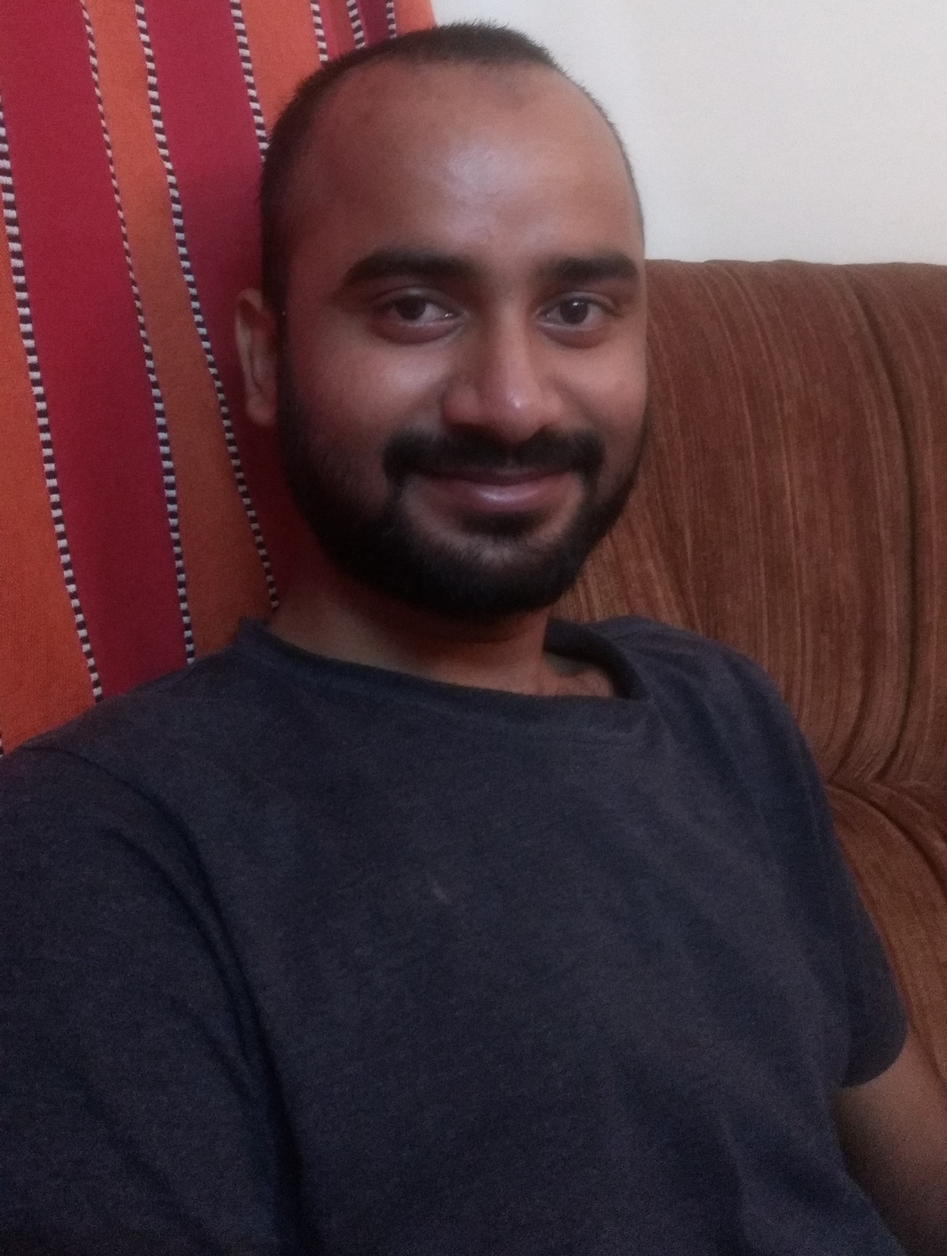
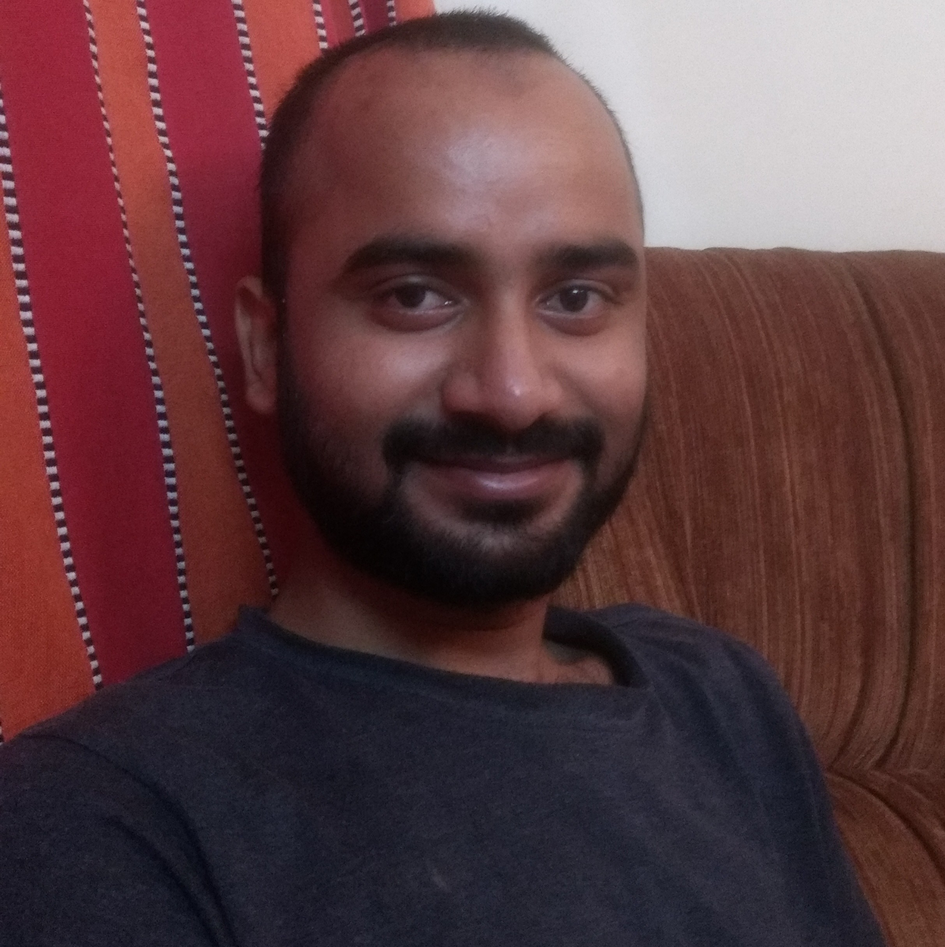
update image and text font

diff --git a/index.html b/index.html
@@ -9,30 +9,38 @@
 	<link href="https://fonts.googleapis.com/css?family=Lobster|Playball" rel="stylesheet">
 	<link rel="stylesheet" type="text/css" href="style.css">
 </head>
+
 <body>
 	<div class="container">
   		<div class="row top-intro">
-    		<div class="col-md-8 col-xs-8">
-    			<h1>Hi, I'm Ashvini Maurya ...</h1>
+    		<div class="col-md-8 col-xs-6">
+    			<h1>
+    				<strong>Hi, I'm Ashvini Maurya ...</strong>
+    			</h1>
     			<p>I'm graduate from Krishna Institute of Engineering and Technology Ghaziabad. I have experience in HTML, CSS, JavaScript, Twitter Bootstrap, Python, Linux and Git.</p>
     			<p>I'm interested in full stack web development.</p>
     		</div>
 
-    		<div class="col-md-4 col-xs-4">
-    			<img src="image/ashvini.jpg" class="img-circle img-responsive" alt="Ashvini">
+    		<div class="col-md-4 col-xs-6">
+    			<img src="image/ashvini.jpg" id="AboutImg" class="img-responsive img-circle" alt="Ashvini">
     		</div>
 		</div>
 
-		<div class="row aboutme-detailed">
-			<div class="col-md-12">
-				<p>I want to join geekskool because I don't have much tech experience to get into startups. I have been doing Front-end technologies but there is gap what startups are looking for and what I have. So I will be able to fill those gaps with help of geekskool and working with other as much passionate people.</p>
+	</div>
 
-				<p>I have been doing Front-end focussed technologies from FreeCodeCamp. Getting into Geekskool I will be able to do some real world projects. </p>
+	<div class="container">
+		<div class="row aboutme-detailed well-lg">
+			<div class="col-md-12 col-xs-12">
+				<p>I want to join geekskool because I don't have much tech experience to get into startups. I have been doing web technologies but there is gap what startups are looking for and what I have. So I will be able to fill those gaps with help of geekskool and working with other as much passionate people.</p>
+
+				<p>I have been doing Front-end focussed technologies from FreeCodeCamp. Getting into Geekskool I will be able to work on some real world projects. </p>
 
 				<p>Recently, I was working on Hacker News clone with some other features like directly tweeting from website. <a href="https://ashvinikumar.github.io/HN-Angular2/" target="_blank">Here</a> is live web-app. </p>
 			</div>
 		</div>
+	</div>
 
+	<div class="container">
 		<div class="row social-media">
 			<span class="fa-stack fa-2x">
 				<a href="https://twitter.com/ashvinimaurya" target="_blank">
@@ -54,7 +62,7 @@
 			  		<i class="fa fa-stack-overflow fa-stack-1x fa-inverse" aria-hidden="true"></i>
 				</a>
 			</span>
-			
+		
 			<span class="fa-stack fa-2x">
 				<a href="https://www.freecodecamp.com/ashvinikumar" target="_blank">
 			  		<i class="fa fa-circle fa-stack-2x"></i>
@@ -69,8 +77,9 @@
 				</a>
 			</span>
 		</div>
-
 	</div>
+
+	
 
 	<script src="https://ajax.googleapis.com/ajax/libs/jquery/3.2.1/jquery.min.js"></script>
   	<script src="https://maxcdn.bootstrapcdn.com/bootstrap/3.3.7/js/bootstrap.min.js"></script>

diff --git a/style.css b/style.css
@@ -4,6 +4,7 @@ body {
 
 p {
 	color: green;
+	font-size: 18px;
 	/*font-family: 'Playball', cursive;
 	font-size: 20px;*/
 }
@@ -11,12 +12,29 @@ p {
 h1 {
 	color: green;
 	font-family: 'Lobster', cursive;
+	margin-bottom: 25px;
 }
 
-.img-circle {
-	width: 35%; 
-	height: 35%;
-	border-radius: 25%;
+#AboutImg {
+	max-width: 100%;
+	width: 50%; 
+	height: auto;
+	display: block;
+	
+	background-position-y: center;
+	background-position-x: center;
+	background-repeat: no-repeat;
+
+	background-size: cover;
+	overflow:hidden;
+    border-radius:50%
+
+    margin: 0 auto;
+	top: 0;
+	left: 0;
+	right: 0;
+	bottom: 0;
+
 }
 
 .top-intro {
@@ -33,11 +51,14 @@ h1 {
     text-align:center;
 }
 
-.container {
-	/*margin-left: auto;
-	margin-right: auto;*/
-	padding-right: 0; 
-    padding-left: 0;
-    margin-right: 10%;
-    margin-left: 10%;
+
+img {
+  border-radius: 50%;
+  transition: all 0.8s ease-in-out 0s;
+}
+
+img:hover {
+  cursor: default;
+    transform: rotate(360deg);
+    transition: all 0.8s ease-in-out 0s;
 }
